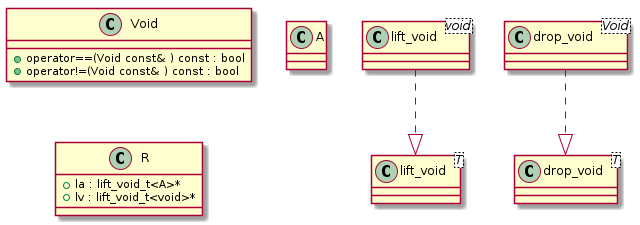
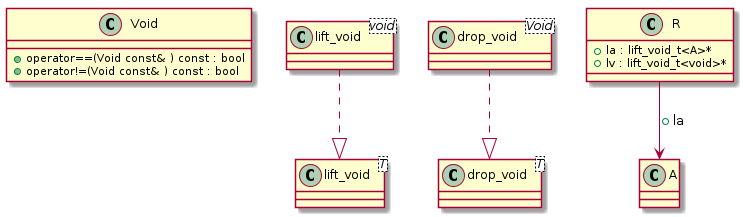
Updated test case docs

diff --git a/docs/test_cases/t00034.md b/docs/test_cases/t00034.md
@@ -13,6 +13,9 @@ diagrams:
     include:
       namespaces:
         - clanguml::t00034
+    plantuml:
+      after:
+        - "@A(R) --> @A(A) : +la"
 
 ```
 ## Source code
@@ -45,7 +48,8 @@ template <> struct lift_void<void> {
 // TODO: This is a shortcoming of libclang which parses the type of lift_void_t
 // alias as unexposed, i.e. no actual reference to T can be inferred without
 // manually parsing the string 'typename lift_void<T>::type'
-// For now, this test validates that the visitor does not crash
+// For now, this test validates that the visitor does not crash, the reference
+// between R and A has to be provided in the configuration file
 //
 template <typename T> using lift_void_t = typename lift_void<T>::type;
 
